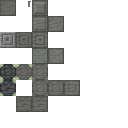
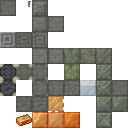
add block of silicon bronze, gregtech inspired circuit items

Changed region(s): [[0.5, 0.375, 1.0, 1.0], [0.125, 0.75, 0.625, 1.0]]

diff --git a/src/main/java/io/github/reoseah/hayo/Hayo.java b/src/main/java/io/github/reoseah/hayo/Hayo.java
@@ -231,6 +231,7 @@ public class Hayo {
 
         public static final Block MACHINE_BLOCK = register("machine_block", Block::new, MACHINES);
         public static final Block ADVANCED_MACHINE_BLOCK = register("advanced_machine_block", Block::new, MACHINES);
+        public static final Block SILICON_BRONZE_BLOCK = register("silicon_bronze_block", Block::new, BlockBehaviour.Properties.of().strength(3F).sound(SoundType.METAL).mapColor(MapColor.COLOR_ORANGE));
 
         public static final Block CHIPBOARD = register("chipboard", Block::new, BlockBehaviour.Properties.of().strength(3F).sound(SoundType.WOOD).mapColor(MapColor.WOOD));
         public static final Block CHIPBOARD_DOOR = register("chipboard_door", props -> new DoorBlock(BlockSetType.OAK, props), BlockBehaviour.Properties.of().mapColor(MapColor.WOOD).instrument(NoteBlockInstrument.BASS).strength(3.0F).noOcclusion().ignitedByLava().pushReaction(PushReaction.DESTROY));
@@ -282,6 +283,7 @@ public class Hayo {
 
         public static final Item MACHINE_BLOCK = registerBlock(Blocks.MACHINE_BLOCK);
         public static final Item ADVANCED_MACHINE_BLOCK = registerBlock(Blocks.ADVANCED_MACHINE_BLOCK);
+        public static final Item SILICON_BRONZE_BLOCK = registerBlock(Blocks.SILICON_BRONZE_BLOCK);
 
         public static final Item CHIPBOARD = registerBlock(Blocks.CHIPBOARD);
         public static final Item CHIPBOARD_DOOR = registerBlock(Blocks.CHIPBOARD_DOOR);
@@ -294,7 +296,21 @@ public class Hayo {
 
         public static final Item FERRU_SEEDS = registerItem("ferru_seeds", props -> new BlockItem(Blocks.FERRU, props), new Item.Properties().useItemDescriptionPrefix());
 
-        public static final Item WRENCH = registerItem("wrench");
+        private static final HolderGetter<Block> BLOCK_LOOKUP = BuiltInRegistries.acquireBootstrapRegistrationLookup(BuiltInRegistries.BLOCK);
+
+        public static final TagKey<Block> WRENCH_MINEABLE = TagKey.create(Registries.BLOCK, modId("mineable/wrench"));
+        public static final Item WRENCH = registerItem("wrench", Item::new, new Item.Properties() //
+                .component(DataComponents.TOOL, new Tool( //
+                        List.of( //
+                                Tool.Rule.deniesDrops(BLOCK_LOOKUP.getOrThrow(BlockTags.INCORRECT_FOR_IRON_TOOL)), //
+                                Tool.Rule.minesAndDrops(BLOCK_LOOKUP.getOrThrow(WRENCH_MINEABLE), 20F) //
+                        ), 1F, 1, true) //
+                ) //
+                .repairable(TagKey.create(Registries.ITEM, Identifier.fromNamespaceAndPath("c", "ingots/copper"))) //
+                .enchantable(10) //
+                .durability(256) //
+                .equippable(EquipmentSlot.MAINHAND) //
+                .stacksTo(1));
 
         public static ItemAttributeModifiers createChargedAttributes(float attackDamage, float attackSpeed) {
             var builder = ItemAttributeModifiers.builder();
@@ -303,9 +319,7 @@ public class Hayo {
             return builder.build();
         }
 
-        private static final HolderGetter<Block> BLOCK_LOOKUP = BuiltInRegistries.acquireBootstrapRegistrationLookup(BuiltInRegistries.BLOCK);
         public static final TagKey<Block> CHAINSAW_MINEABLE = TagKey.create(Registries.BLOCK, modId("mineable/chainsaw"));
-
         public static final Item CHAINSAW = registerItem("chainsaw", props -> new SimpleElectricToolItem(props, createChargedAttributes(12, -3), 50, 10000, 32), new Item.Properties() //
                 .component(DataComponents.TOOL, new Tool( //
                         List.of( //
@@ -317,7 +331,6 @@ public class Hayo {
                 .stacksTo(1));
 
         public static final TagKey<Block> DRILL_MINEABLE = TagKey.create(Registries.BLOCK, modId("mineable/drill"));
-
         public static final Item DRILL = registerItem("drill", props -> new SimpleElectricToolItem(props, createChargedAttributes(6, -3), 50, 10000, 32), new Item.Properties() //
                 .component(DataComponents.TOOL, new Tool( //
                         List.of( //
@@ -454,6 +467,8 @@ public class Hayo {
         public static final Item CIRCUIT = registerItem("circuit");
         public static final Item ELECTRIC_MOTOR = registerItem("electric_motor");
         public static final Item TRANSFORMER = registerItem("transformer");
+        public static final Item DATA_CIRCUIT = registerItem("data_circuit", new Item.Properties().rarity(Rarity.RARE));
+        public static final Item ENERGY_FLOW_CIRCUIT = registerItem("energy_flow_circuit", new Item.Properties().rarity(Rarity.RARE));
         public static final Item MIXED_METAL_INGOT = registerItem("mixed_metal_ingot");
         public static final Item COMPOSITE_PLATE = registerItem("composite_plate", new Item.Properties().rarity(Rarity.RARE));
         public static final Item CARBON_REDSTONE_MATRIX = registerItem("carbon_redstone_matrix");
@@ -492,6 +507,7 @@ public class Hayo {
 
                 entries.accept(MACHINE_BLOCK);
                 entries.accept(ADVANCED_MACHINE_BLOCK);
+                entries.accept(SILICON_BRONZE_BLOCK);
                 entries.accept(CHIPBOARD);
                 entries.accept(CHIPBOARD_DOOR);
                 entries.accept(REINFORCED_STONE);
@@ -557,6 +573,9 @@ public class Hayo {
                 entries.accept(CIRCUIT);
                 entries.accept(ELECTRIC_MOTOR);
                 entries.accept(TRANSFORMER);
+                entries.accept(DATA_CIRCUIT);
+                entries.accept(ENERGY_FLOW_CIRCUIT);
+
                 entries.accept(MIXED_METAL_INGOT);
                 entries.accept(COMPOSITE_PLATE);
                 entries.accept(CARBON_REDSTONE_MATRIX);
